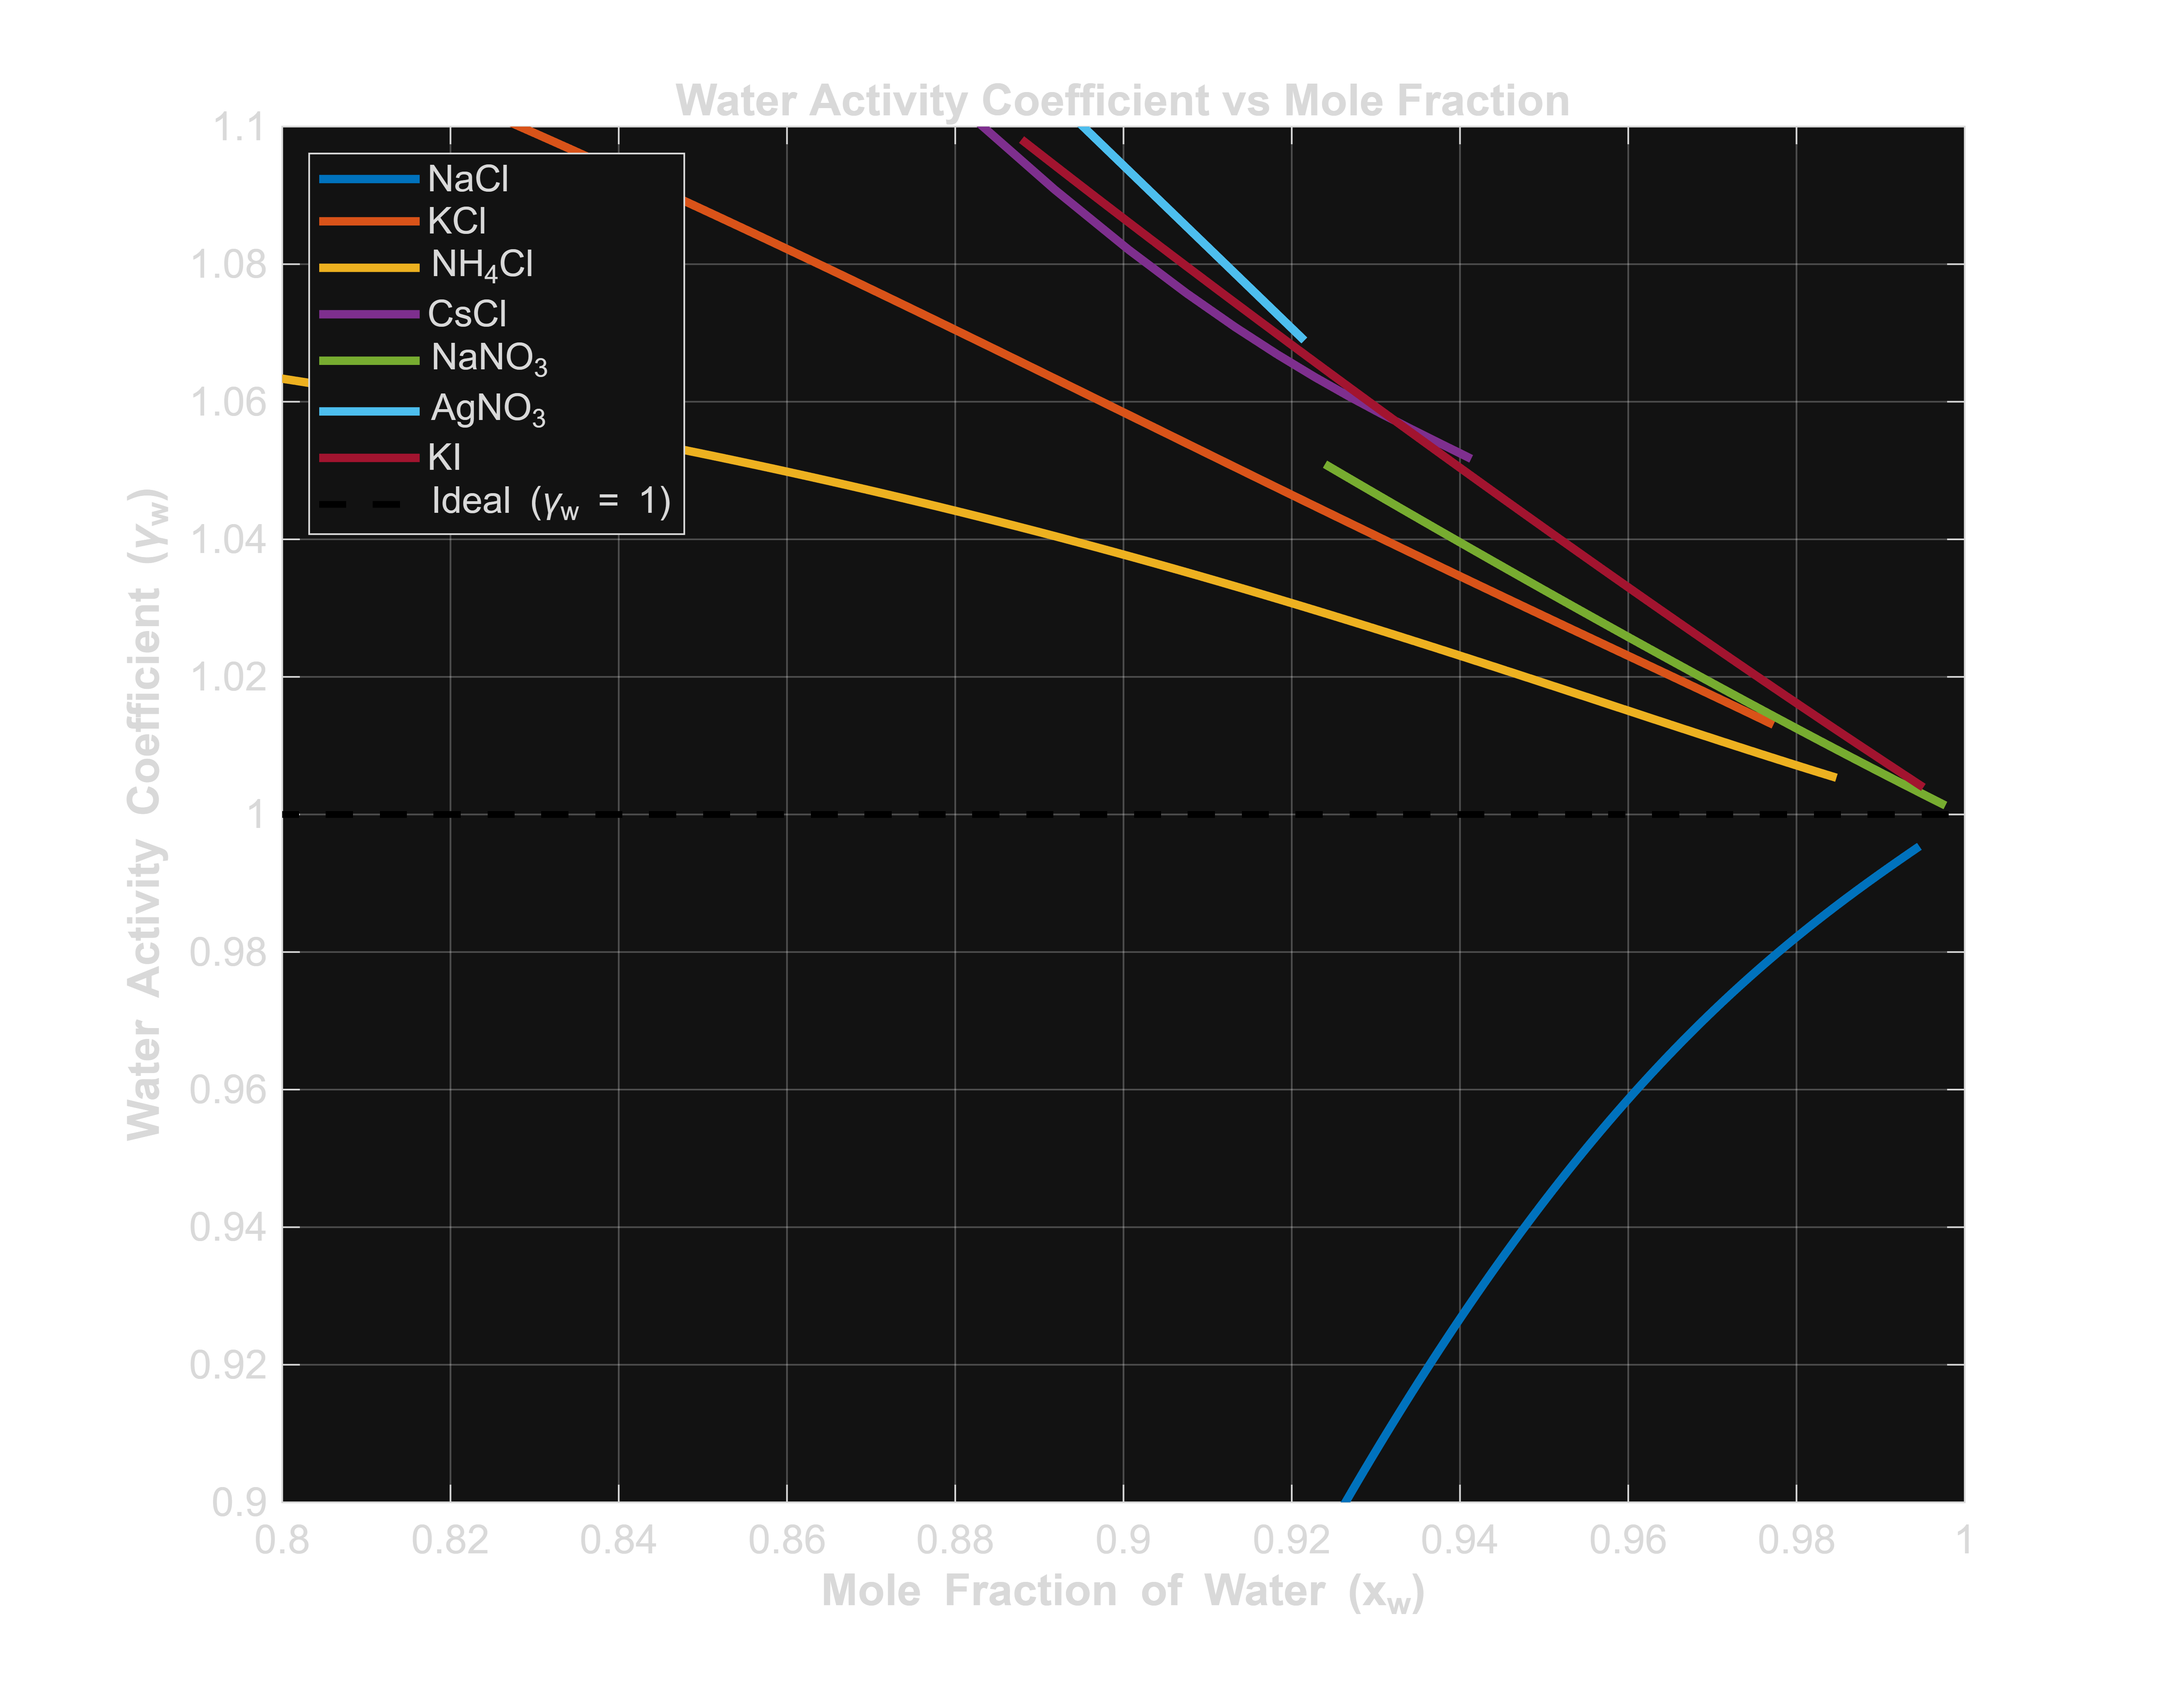
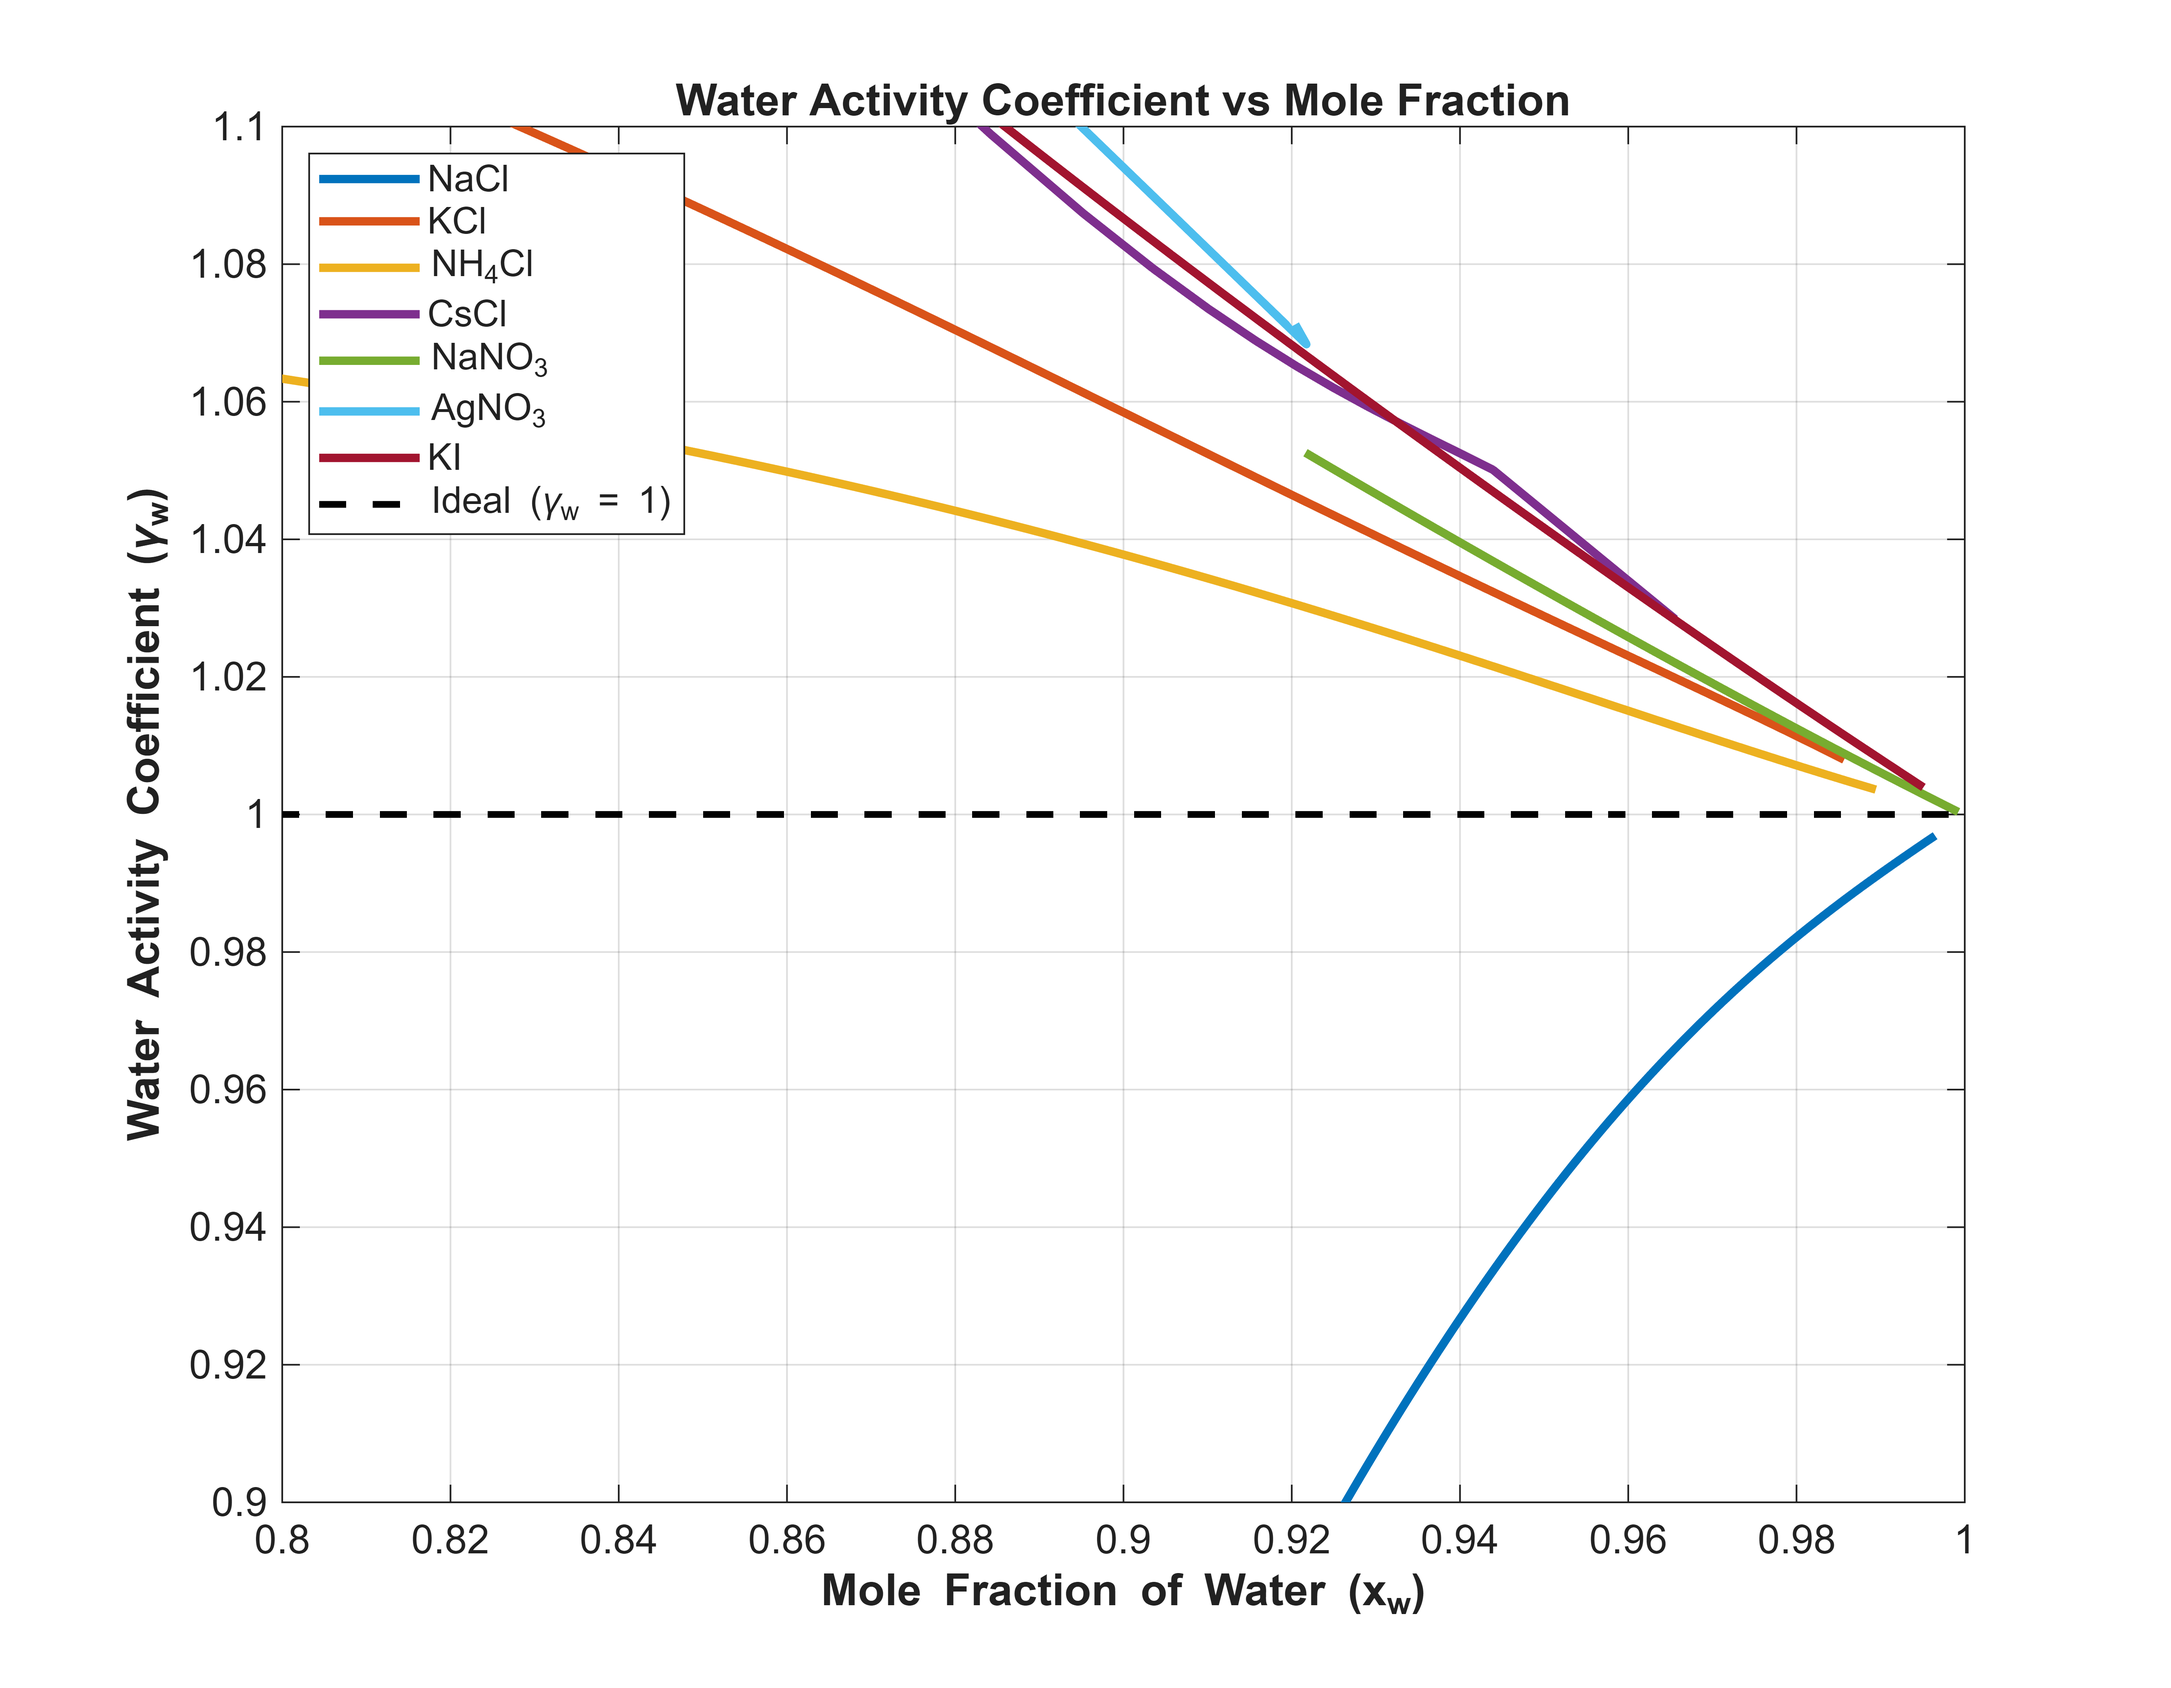
update plot limits, change to light theme

diff --git a/plot_water_activity_endothermic.m b/plot_water_activity_endothermic.m
@@ -11,7 +11,7 @@ MWw = 18.015;
 %% NaCl
 MW_NaCl = 58.443;
 % Output Range from fit: [0.7620, 0.9934]
-RH_NaCl = linspace(0.765, 0.99, 100);
+RH_NaCl = linspace(0.765, 0.9934, 100);
 
 for i = 1:length(RH_NaCl)
     % Note: T is implicit in the specific function for this salt (25C)
@@ -23,7 +23,7 @@ end
 %% KCl
 MW_KCl = 74.551;
 % Output Range from fit: [0.8520, 0.9935]
-RH_KCl = linspace(0.855, 0.99, 100);
+RH_KCl = linspace(0.852, 0.9935, 100);
 
 for i = 1:length(RH_KCl)
     mf_salt_KCl(i) = calculate_mf_KCl_(RH_KCl(i));
@@ -34,7 +34,7 @@ end
 %% NH4Cl
 MW_NH4Cl = 53.491;
 % Output Range from fit: [0.8120, 0.9930]
-RH_NH4Cl = linspace(0.815, 0.99, 100);
+RH_NH4Cl = linspace(0.812, 0.993, 100);
 
 for i = 1:length(RH_NH4Cl)
     mf_salt_NH4Cl(i) = calculate_mf_NH4Cl_(RH_NH4Cl(i));
@@ -45,7 +45,7 @@ end
 %% CsCl
 MW_CsCl = 168.363;
 % Output Range from fit: [0.8170, 0.9930]
-RH_CsCl = linspace(0.82, 0.99, 100);
+RH_CsCl = linspace(0.817, 0.993, 100);
 
 for i = 1:length(RH_CsCl)
     mf_salt_CsCl(i) = calculate_mf_CsCl_(RH_CsCl(i));
@@ -56,7 +56,7 @@ end
 %% NaNO3
 MW_NaNO3 = 84.994;
 % Output Range from fit: [0.9701, 0.9996]
-RH_NaNO3 = linspace(0.971, 0.999, 100);
+RH_NaNO3 = linspace(0.9701, 0.9996, 100);
 
 for i = 1:length(RH_NaNO3)
     mf_salt_NaNO3(i) = calculate_mf_NaNO3_(RH_NaNO3(i));
@@ -67,7 +67,7 @@ end
 %% AgNO3
 MW_AgNO3 = 169.87;
 % Output Range from fit: [0.8620, 0.9860]
-RH_AgNO3 = linspace(0.865, 0.985, 100);
+RH_AgNO3 = linspace(0.862, 0.986, 100);
 
 for i = 1:length(RH_AgNO3)
     mf_salt_AgNO3(i) = calculate_mf_AgNO3_(RH_AgNO3(i));
@@ -77,8 +77,8 @@ end
 
 %% KI
 MW_KI = 165.998;
-% Output Range from fit: [0.9737, 1.0000]
-RH_KI = linspace(0.975, 0.999, 100);
+% Output Range from fit: [0.9737, 1.0000] ?
+RH_KI = linspace(0.97, 0.999, 100);
 
 for i = 1:length(RH_KI)
     mf_salt_KI(i) = calculate_mf_KI_(RH_KI(i));
@@ -95,60 +95,60 @@ gamma_NaNO3 = RH_NaNO3 ./ x_water_NaNO3;
 gamma_AgNO3 = RH_AgNO3 ./ x_water_AgNO3;
 gamma_KI    = RH_KI    ./ x_water_KI;
 
-%% Calculate Constrained Weighted Polynomial Fit
-% Define the salts to include in the fit
-fit_salts = {'NaCl', 'KCl', 'NH4Cl', 'CsCl', 'NaNO3', 'AgNO3', 'KI'};
-
-% Initialize container arrays for fitting
-all_RH_fit = [];
-all_gamma_fit = [];
-all_weights = [];
-
-% Loop through salts to aggregate data and calculate weights
-for k = 1:length(fit_salts)
-    salt_name = fit_salts{k};
-    
-    % Dynamically fetch the RH and Gamma vectors from the workspace
-    rh_vec = eval(['RH_' salt_name]);
-    gamma_vec = eval(['gamma_' salt_name]);
-    
-    % Calculate the Range of RH for this salt to use as weight
-    rh_range = max(rh_vec) - min(rh_vec);
-    
-    % Assign weight (range) to every point in this dataset
-    w_vec = ones(size(rh_vec)) * rh_range;
-    
-    % Append to master lists (Convert RH to %)
-    all_RH_fit = [all_RH_fit, rh_vec * 100]; 
-    all_gamma_fit = [all_gamma_fit, gamma_vec];
-    all_weights = [all_weights, w_vec];
-end
-
-% --- Perform Constrained Least Squares ---
-% Quadratic Model: y = a*x^2 + b*x + c
-% Constraint: Pass through (100, 1) -> 1 = a(10000) + b(100) + c
-% Solve for c: c = 1 - 10000a - 100b
-% Substitute c back into model: 
-% y = a*x^2 + b*x + (1 - 10000a - 100b)
-% Rearrange to isolate a and b:
-% y - 1 = a(x^2 - 10000) + b(x - 100)
-
-% Prepare matrices for linear regression (Y = X*Beta)
-Y_vec = all_gamma_fit' - 1;
-X_mat = [(all_RH_fit.^2 - 10000)', (all_RH_fit - 100)'];
-
-% Solve using lscov (Weighted Least Squares)
-% lscov minimizes (B - A*x)'*diag(w)*(B - A*x)
-coeffs = lscov(X_mat, Y_vec, all_weights');
-
-% Extract parameters
-a_fit = coeffs(1);
-b_fit = coeffs(2);
-c_fit = 1 - 10000*a_fit - 100*b_fit;
-
-% Generate fit line points
-x_fit_line = linspace(0, 100, 200);
-y_fit_line = a_fit * x_fit_line.^2 + b_fit * x_fit_line + c_fit;
+% %% Calculate Constrained Weighted Polynomial Fit
+% % Define the salts to include in the fit
+% fit_salts = {'NaCl', 'KCl', 'NH4Cl', 'CsCl', 'NaNO3', 'AgNO3', 'KI'};
+% 
+% % Initialize container arrays for fitting
+% all_RH_fit = [];
+% all_gamma_fit = [];
+% all_weights = [];
+% 
+% % Loop through salts to aggregate data and calculate weights
+% for k = 1:length(fit_salts)
+%     salt_name = fit_salts{k};
+% 
+%     % Dynamically fetch the RH and Gamma vectors from the workspace
+%     rh_vec = eval(['RH_' salt_name]);
+%     gamma_vec = eval(['gamma_' salt_name]);
+% 
+%     % Calculate the Range of RH for this salt to use as weight
+%     rh_range = max(rh_vec) - min(rh_vec);
+% 
+%     % Assign weight (range) to every point in this dataset
+%     w_vec = ones(size(rh_vec)) * rh_range;
+% 
+%     % Append to master lists (Convert RH to %)
+%     all_RH_fit = [all_RH_fit, rh_vec * 100]; 
+%     all_gamma_fit = [all_gamma_fit, gamma_vec];
+%     all_weights = [all_weights, w_vec];
+% end
+% 
+% % --- Perform Constrained Least Squares ---
+% % Quadratic Model: y = a*x^2 + b*x + c
+% % Constraint: Pass through (100, 1) -> 1 = a(10000) + b(100) + c
+% % Solve for c: c = 1 - 10000a - 100b
+% % Substitute c back into model: 
+% % y = a*x^2 + b*x + (1 - 10000a - 100b)
+% % Rearrange to isolate a and b:
+% % y - 1 = a(x^2 - 10000) + b(x - 100)
+% 
+% % Prepare matrices for linear regression (Y = X*Beta)
+% Y_vec = all_gamma_fit' - 1;
+% X_mat = [(all_RH_fit.^2 - 10000)', (all_RH_fit - 100)'];
+% 
+% % Solve using lscov (Weighted Least Squares)
+% % lscov minimizes (B - A*x)'*diag(w)*(B - A*x)
+% coeffs = lscov(X_mat, Y_vec, all_weights');
+% 
+% % Extract parameters
+% a_fit = coeffs(1);
+% b_fit = coeffs(2);
+% c_fit = 1 - 10000*a_fit - 100*b_fit;
+% 
+% % Generate fit line points
+% x_fit_line = linspace(0, 100, 200);
+% y_fit_line = a_fit * x_fit_line.^2 + b_fit * x_fit_line + c_fit;
 
 %% FIGURE 1: Activity Coefficient vs Mole Fraction
 figure('Position', [100, 100, 900, 700]);
@@ -187,7 +187,7 @@ plot(RH_AgNO3*100, gamma_AgNO3, 'LineWidth', 2.5, 'DisplayName', 'AgNO_3','color
 plot(RH_KI*100,    gamma_KI,    'LineWidth', 2.5, 'DisplayName', 'KI',    'color', [0.6350 0.0780 0.1840])
 
 % Plot the Average Fit Line
-plot(x_fit_line, y_fit_line, 'k:', 'LineWidth', 3, 'DisplayName', 'Average')
+% plot(x_fit_line, y_fit_line, 'k:', 'LineWidth', 3, 'DisplayName', 'Average')
 
 plot([0 100], [1 1], 'k--', 'LineWidth', 2, 'DisplayName', 'Ideal (\gamma_w = 1)')
 xlabel('Relative Humidity (%)', 'FontSize', 14, 'FontWeight', 'bold')
